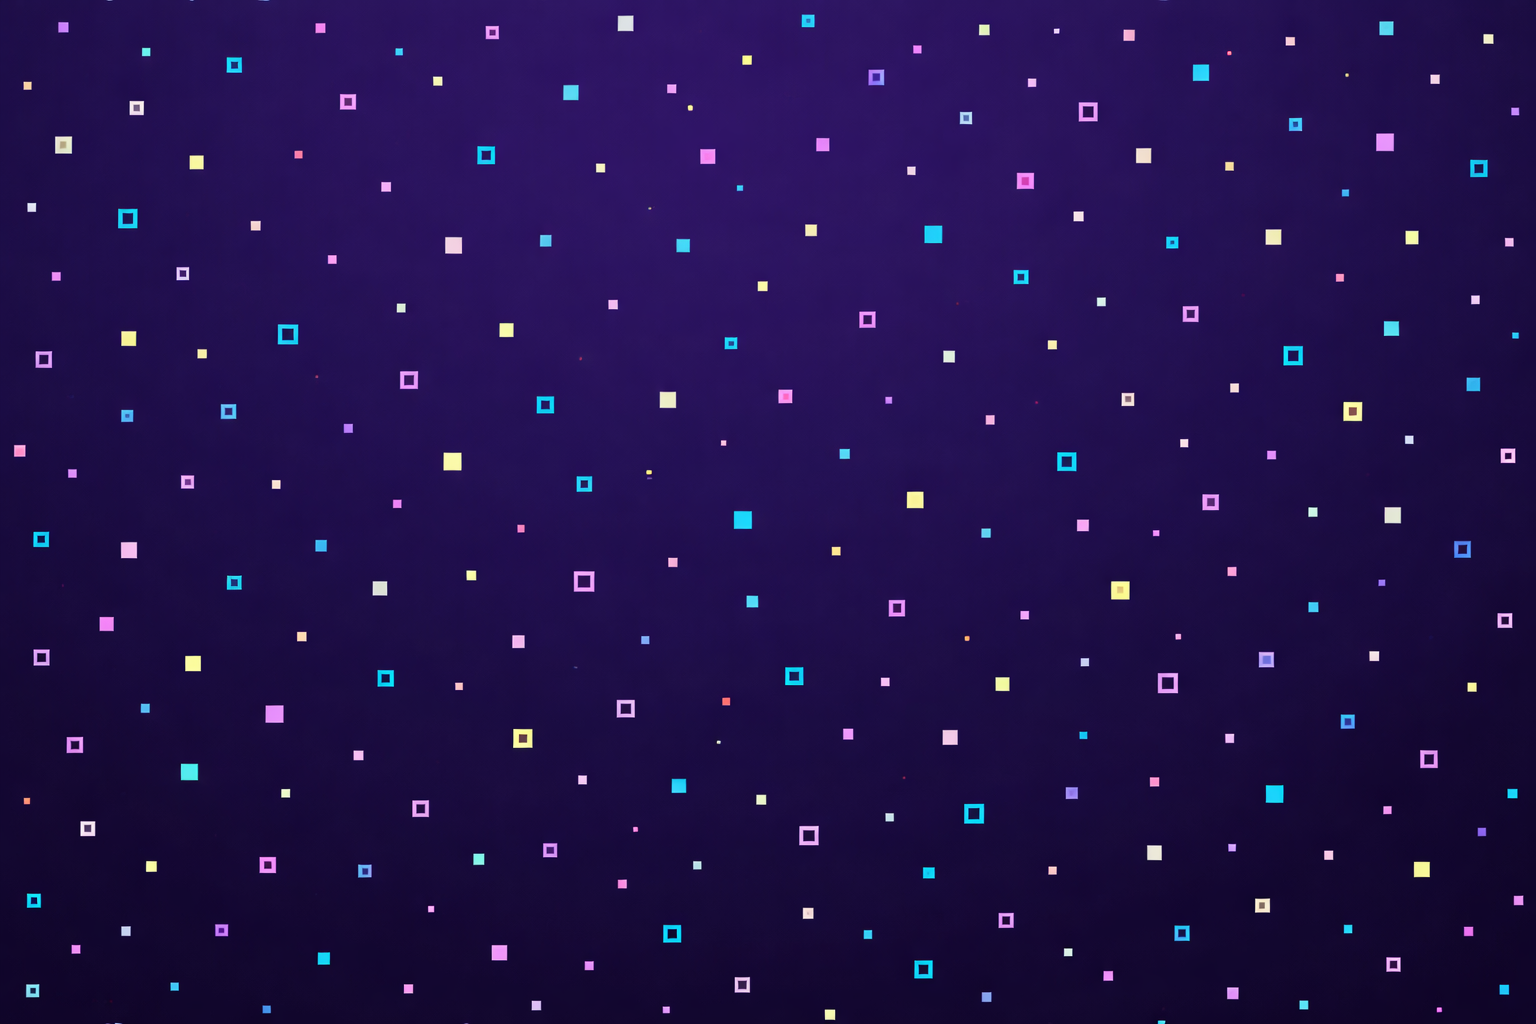
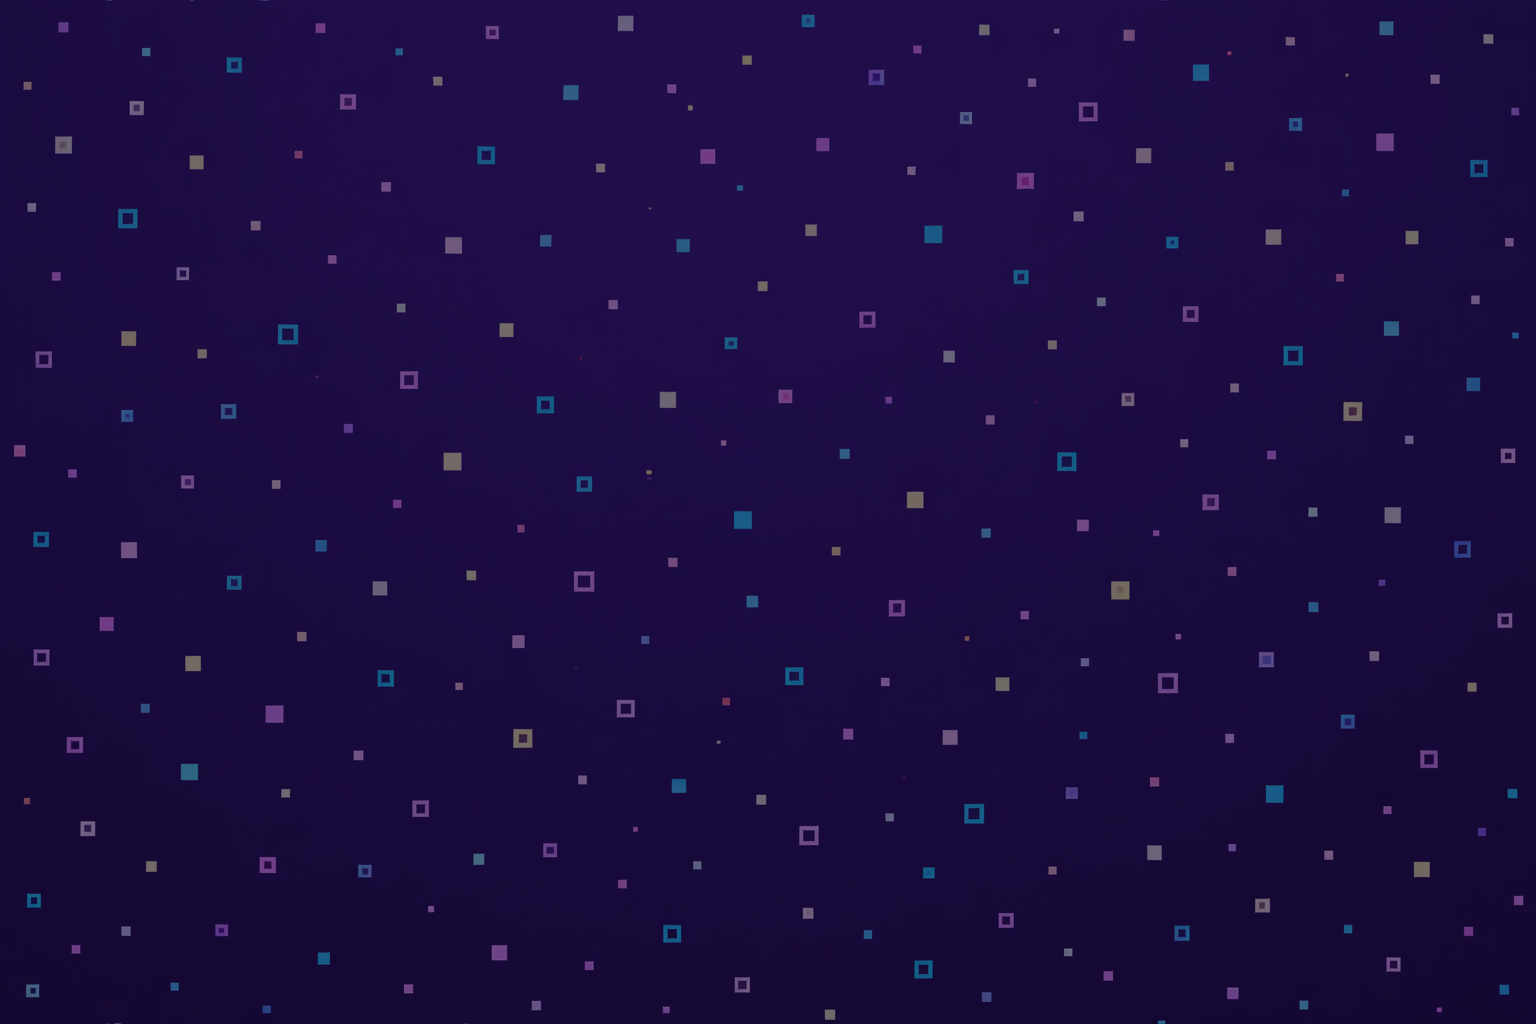
updated index file code

diff --git a/Script.js b/Script.js
@@ -49,6 +49,7 @@ var circlesEngine = {
     autoMoveTimer: null,
     instructionTimer: null,
     targetColor: null,
+    blinkCount: 0,
 
     showInstruction: function(colorObj, callback) {
         var toast  = document.getElementById('colorToast');
@@ -81,6 +82,7 @@ var circlesEngine = {
         el.dataset.colorCls = colorObj.cls;
 
         toolsBox.onClick(el, () => {
+            this.blinkCount = 0;
             if (el.dataset.colorCls === this.targetColor.cls) {
                 soundBlue.currentTime = 0;
                 soundBlue.play();
@@ -118,9 +120,27 @@ var circlesEngine = {
                         el.style.opacity = '1';
                     }
                 });
-                this.startAutoMove();
+
+                this.blinkCount++;
+
+                if (this.blinkCount >= 3) {
+                    this.blinkCount = 0;
+                    // Pick a new target color (different from current)
+                    var newIdx;
+                    do {
+                        newIdx = toolsBox.gnrtRndmNum(0, colors.length - 1);
+                    } while (colors[newIdx].cls === this.targetColor.cls);
+                    this.targetColor = colors[newIdx];
+
+                    var self = this;
+                    this.showInstruction(this.targetColor, function() {
+                        self.startAutoMove();
+                    });
+                } else {
+                    this.startAutoMove();
+                }
             }, 300);
-        },1000);
+        }, 1000);
     },
 
     randomize: function(el) {
@@ -156,6 +176,7 @@ var circlesEngine = {
             clearTimeout(this.autoMoveTimer);
             this.autoMoveTimer = null;
         }
+        this.blinkCount = 0;
         gameSpace.innerHTML = '';
 
         // Pick a random target color

diff --git a/style.css b/style.css
@@ -48,7 +48,7 @@ h1, h2, h3, p, button {
 
 .main-wrapper {
   /* Removed the fallback hex color that caused darkness */
-  background: url('images/gamebg.png') center center / cover no-repeat;
+  background: url('images/gamebg1.jpg') center center / cover no-repeat;
   width: 100%;
   height: 100%;
   /* Changed to fixed to ensure the image stays pinned to the screen edges */
